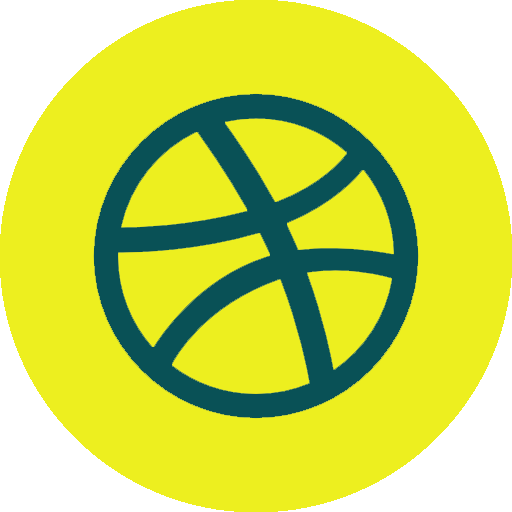
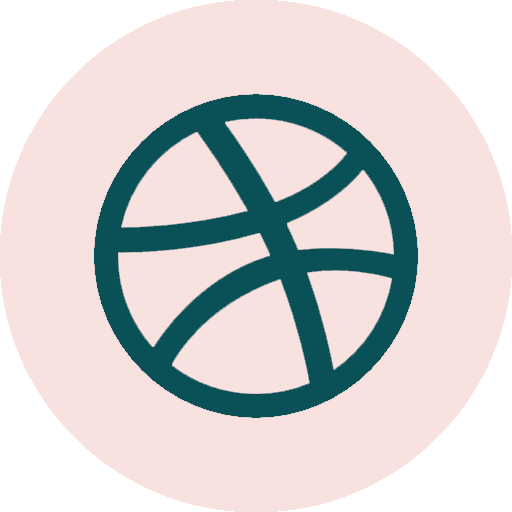
background colors, header image

diff --git a/css/main.css b/css/main.css
@@ -7,20 +7,20 @@ body {
 
 #portfolio {
   height: 780px;
-  background: #f0f4f5;
+  background: #ffffff;/*#E6EEF1;/*#E8EEF4;/*#f0f0f5;*/
   margin: 0 auto;
 }
 
 #about {
-  background: #087e8b;
+  background: #F7E2E0;/*#095156;/*#087e8b;*/
   margin: 0 auto;
   height: 600px;
 }
 
 #contact {
-  background: #095156;
+  background: #095156;/*#bc5664;#f0f0f5;*/
   margin: 0 auto;
-  height: 350px;
+  height: 355px;
 }
 
 #home {
@@ -58,9 +58,13 @@ width: 100%;
 }
 
  header {
-  background: url('../img/KeyboardHeader2-copy.png'); 
-   background-size: cover;
-   background-color: #ffffff;
+  background: url('../img/freelancedesigner.jpg');
+  background-repeat: no-repeat;
+  background-position: right bottom;
+  background-size: contain;
+  /* background-size: cover;
+   background-position: top 20px;*/
+   background-color: #F7E2E0;
    height: 770px;
  }
 
@@ -72,21 +76,12 @@ nav {
   width: 100%;
   font-family: 'Roboto', sans-serif;
   text-align: center;
-/*  text-align: right;
-/*  margin-top: 30px; /*30*/
-/*  margin-right: 100px; /*100px*/
-
-}
-
-  nav {
   overflow: hidden;
-  /*background-color: #c5d6d7;*/
   background-color: #ffffff;
-  position: fixed;  /*Set the navbar to fixed position*/
-  top: 0;  /*Position the navbar at the top of the page*/
+  position: fixed;
+  top: 0;
   left: 0;
   right: 0;
-  width: 100%;  /*Full width*/
   border-bottom: 2px solid;
   border-bottom-color: DarkGrey;
   height: 40px;
@@ -110,19 +105,19 @@ nav span a {
 }
 
 a:hover {
-  color:#bdbf09;
+  color:	#BC5664;
 }
 
 #logo {
-  margin-right: 875px;
-  width: 35px;
-  height: 35px;
+  margin-right: 1020px;
+  /*width: 35px;
+  height: 35px */
 }
 
 
 
  header h1 {
-  font-size: 54px;
+  font-size: 50px; /*54px*/
   font-family: 'Roboto Slab', serif;
   font-style: bold;
   color: #095156;
@@ -143,6 +138,7 @@ header h2 {
   text-align: center;
   padding: 10px 250px 0px;
   margin: 0;
+
 }
 
 /*----PORTFOLIO-------*/
@@ -163,12 +159,12 @@ header h2 {
   width: 350px;
   height: 250px;
   margin: 0px 23px;
-  border: 4px solid transparent;
+  border: 2px solid DarkGrey;
   box-sizing: border-box;
 }
 
 #projects:hover {
-    border: 4px solid #bdbf09;
+    border: 4px solid #095156;/*#BC5664;*/
 
 }
 
@@ -225,7 +221,7 @@ header h2 {
 
 #about h2 {
   text-align: center;
-  color: #f0f0f5;
+  color: 	#095156;
   font-size: 25px;
   padding-top: 20px;
   padding-bottom: 20px;
@@ -233,8 +229,9 @@ header h2 {
 
 #about img {
   /*margin-top: 40px;*/
-  margin-left: 200px;
-  width: 370px;
+  margin-left: 150px;
+  width: 500px;
+  height: auto;
 }
 
 #about p {
@@ -242,7 +239,7 @@ header h2 {
   margin-left: 70px;
   margin-bottom: 10px;
   padding: 0px 0px 10px;
-  color: #f0f0f5;
+  color: #095156;
   font-family: 'Roboto', sans-serif;
   font-size: 18px;
 }
@@ -261,22 +258,27 @@ header h2 {
 
 #contact h2 {
   text-align: center;
-  color: #f0f0f5;
+  color: 	#F7E2E0;
   font-size: 25px;
-  padding-bottom: 20px;
+  padding-top: 10px;
+  padding-bottom: 40px;
+  margin-bottom: 10px;
 }
 
 #contact h3 {
   font-size: 20px;
   text-align: center;
   padding: 0px 15px 0px;
-  color: #f0f0f5;
+  color: #F7E2E0;
   font-family: 'Roboto', sans-serif;
 }
 
 #contact span {
   padding: 0px 15px 0px;
-  color: #f0f0f5;
+  color: #F7E2E0;
+}
+
+#contact a {
   text-decoration: none;
 }
 
@@ -293,12 +295,12 @@ header h2 {
   text-align: center;
   font-size: 14px;
   font-family: 'Roboto', sans-serif;
-  padding-top: 110px;
-  color: #f0f0f5;
+  padding-top: 100px;
+  color: #F7E2E0;
 }
 
 #contact p span {
-  color: #bdbf09;
+  color: #F7E2E0;
   margin: -13px;
 }
 
@@ -326,7 +328,7 @@ margin-left: 80px;
 }
 
 #websites:hover {
-    border: 4px solid #bdbf09;
+    border: 4px solid #095156;
 
 }
 

diff --git a/index.html b/index.html
@@ -19,16 +19,16 @@
       <div class="full-width">
       <nav>
         <div class="nav">
-          <!--<span><a href="#home"><img id"logo" src="img/logo.png"></a></span> -->
-        <span id="logo"><a href="#home">Steph Coleman</a></span>
-          <span><a href="#portfolio">Portfolio</a></span>
+        <span id="logo" ><a href="#home"><img src="img/logo-cover.png"></a></span>
+      <!-- <span><a href="#home">Steph Coleman</a></span> -->
+          <span><a href="#portfolio">Work</a></span>
           <span><a href="#about">About</a></span>
           <span><a href="#contact">Contact</a></span>
         </div>
       </nav>
 
-        <h1>Hello! I'm Steph Coleman –</h1>
-      <!--  <h2>a Web and UX Designer in Austin, Texas.</h2> -->
+        <h1>Hello! I'm Steph Coleman,</h1>
+      <h2>a Freelance Designer based in Austin, Texas.</h2>
       </div>
 
     </header>
@@ -37,25 +37,25 @@
 
   <section id="portfolio">
   <div class="full-width">
-    <h2>My Portfolio</h2>
+    <h2>Work</h2>
     <div class="full-width">
 
     <div class="third-width">
-      <a href="mydesigns.html"><img id="projects" src="img/rogue-pickings.png"></a>
+      <a href="mydesigns.html"><img id="projects" src="img/jubilee-austen.png"></a>
         <h3>My Designs</h3>
-      <p>Landing Pages · Infographics · Branding · Design Guides · Iconography </p>
+      <p>Websites · Infographics · Branding · Logos · Iconography </p>
       <img id="paint-icon" src="img/paint.png">
     </div>
 
     <div class="third-width">
-    <img id="projects" src="img/coming-soon.png">
+    <img id="projects" src="img/comingsoon.png">
       <h3>Web Case Study</h3>
       <p>A web-redesign of an online travel agency with a focus on simplistic and clear I.A.</p>
       <img id="web-icon" src="img/computer.png">
     </div>
 
     <div class="third-width">
-      <img id="projects" src="img/coming-soon.png">
+      <img id="projects" src="img/comingsoon.png">
       <h3>Mobile Case Study</h3>
       <p>A collaborative sustainability app designed with competitor analysis in mind.</p>
       <img id="phone-icon" src="img/smartphone.png">
@@ -69,17 +69,17 @@
 
 <section id="about">
 <div class ="full-width">
-  <h2>About Me</h2>
+  <h2>About</h2>
   <div class="half-width">
     <br>
     <p>Based in Austin, Texas, I am a perfectionist who loves to design graphic interfaces as well as develop beautiful, polished code.</p>
 
     <p>With a background in psychology, I love designing with the user in mind and bringing people's visions to life.</p>
 
-    <p>If I'm not on my computer, I'm most likely outside with my 2 black labs, playing guitar, or learning about cognitive and design psychology. </p>
+    <p>If I'm not on my computer, I'm most likely outside with my 2 black labs, playing guitar, or learning something about cognitive or design psychology. </p>
   </div>
   <div class="half-width">
-    <img src ="img/about-me.png"/>
+    <img src ="img/stairhair-copy.png"/>
   </div>
 <!--
   <div class="full-width">
@@ -106,7 +106,7 @@
   <a href="https://www.linkedin.com/in/stephccoleman/"><img src="img/linkedin.png"></a>
   <a href="https://github.com/sccoleman27?tab=repositories"><img src="img/github.png"></a>
   <a href="https://dribbble.com/sccoleman27"><img src="img/dribbble.png"></a>
-  <a href="https://www.pinterest.com/stephccoleman/boards/"><img src="img/pinterest.png"></a>
+  <a href="https://www.pinterest.com/stephccoleman/"><img src="img/pinterest.png"></a>
 </div>
 
 <div class="third-width">
@@ -115,7 +115,7 @@
     <span>Remote / Austin, TX</span>
 </div>
 
-<p><span>©</span>2019 Steph Coleman Designs</p>
+<p><span>©</span>2019 SC Designs</p>
 </div>
 </section>
 

diff --git a/mydesigns.html b/mydesigns.html
@@ -25,9 +25,9 @@
 
       <nav>
         <div class="nav">
-          <!--<span><a href="#home"><img id"logo" src="img/github.png"></a></span> -->
-        <span id="logo"><a href="index.html">Steph Coleman</a></span>
-          <span><a href="index.html#portfolio">Porfolio</a></span>
+        <span id="logo" ><a href="index.html"><img src="img/logo-cover.png"></a></span>
+      <!-- <span><a href="#home">Steph Coleman</a></span> -->
+          <span><a href="index.html#portfolio">Work</a></span>
           <span><a href="index.html#about">About</a></span>
           <span><a href="index.html#contact">Contact</a></span>
         </div>
@@ -40,19 +40,19 @@
         <div class="third-width">
         <a href="websites.html"><img id="projects" src="img/jubilee-austen.png"></a>
           <h3>Websites</h3>
-          <p>Landing pages coded from Photoshop design comps.</p>
+          <p>Landing pages coded from design comps.</p>
         </div>
 
         <div class="third-width">
           <a href="holstee-manifesto/index.html"><img id="projects" src="img/holstee-manifesto.png"></a>
           <h3>Infographic</h3>
-          <p>HTML5 & CSS3 Mantra Exercise.</p>
+          <p>A hand coded manifesto infographic.</p>
       </div>
 
         <div class="third-width">
-          <img id="projects" src="img/coming-soon.png">
-            <h3>Design Guides</h3>
-          <p>Branding · Design Guides · Iconography </p>
+          <img id="projects" src="img/logo-cover.png">
+            <h3>Branding</h3>
+          <p>A collection of logos and iconography.</p>
         </div>
 
       </div>

diff --git a/websites.html b/websites.html
@@ -16,14 +16,15 @@
 
       <nav>
         <div class="nav">
-          <!--<span><a href="#home"><img id"logo" src="img/github.png"></a></span> -->
-        <span id="logo"><a href="index.html">Steph Coleman</a></span>
-          <span><a href="index.html#portfolio">Porfolio</a></span>
+        <span id="logo" ><a href="index.html"><img src="img/logo-cover.png"></a></span>
+      <!-- <span><a href="#home">Steph Coleman</a></span> -->
+          <span><a href="index.html#portfolio">Work</a></span>
           <span><a href="index.html#about">About</a></span>
           <span><a href="index.html#contact">Contact</a></span>
         </div>
       </nav>
-      
+
+
       <section id="portfolio">
       <div class="full-width">
 
